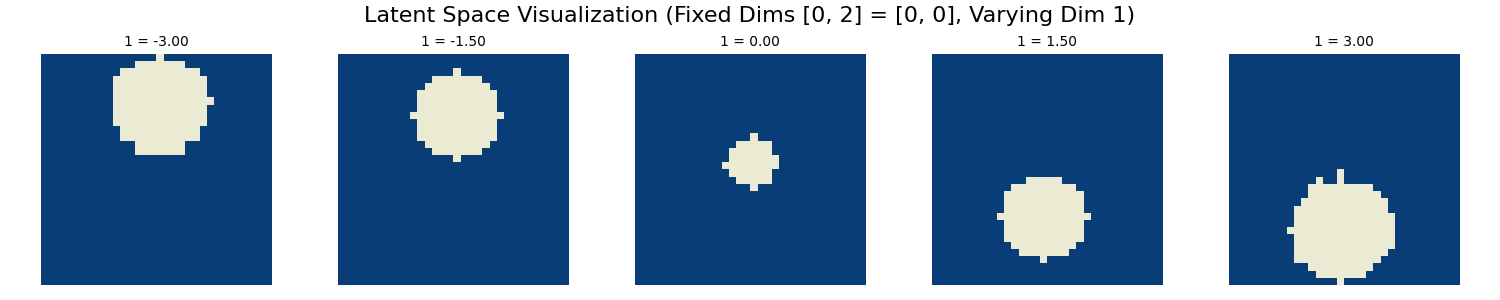
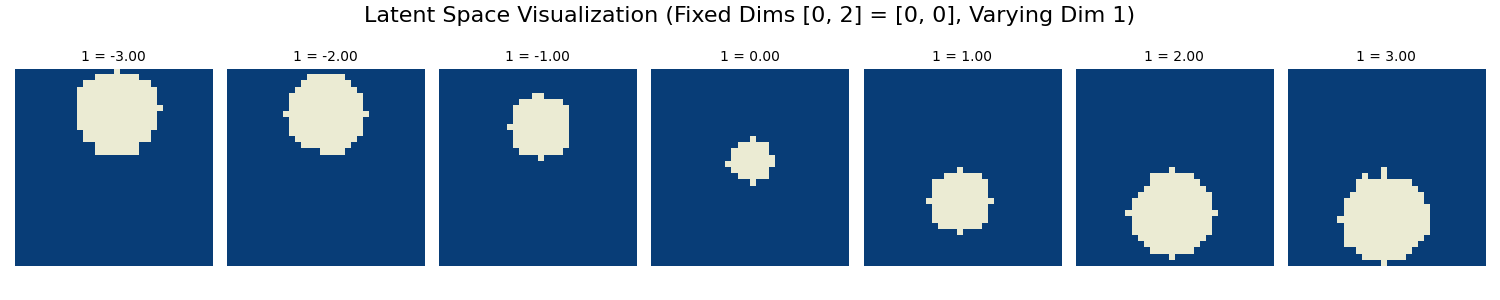
fix: update plot & readme

diff --git a/generate.py b/generate.py
@@ -111,7 +111,7 @@ def main():
         fixed_dims=[0, 2],
         fixed_values=[0, 0],
         varying_dim=1,
-        grid_size=5,
+        grid_size=7,
         latent_range=(-3, 3),
         title="plots/plot3.png",
     )

diff --git a/README.md b/README.md
@@ -8,7 +8,7 @@ This project demonstrates the use of a Variational AutoEncoder (VAE) to learn a 
 
 ##  The Data
 
-The dataset consists of black-and-white images of circles generated using opencv's `cv2.circle `function. Each image contains a single circle, randomly positioned and sized within the frame. The parameters for the circles are:
+The dataset consists of black-and-white images of circles, each of shape 32x32, generated using opencv's `cv2.circle `function. Each image contains a single circle, randomly positioned and sized within the frame. The parameters for the circles are:
 
 - `Radius`: Randomly selected within a defined range.
 - `X-coordinate`: Random horizontal position of the circle's center.
@@ -22,7 +22,7 @@ Below is a sample visualization of the generated data:
 ![logo](./logos/encoder_blue.png)
 
 
-The encoder network compresses the input image into a 3-dimensional latent representation. It consists of convolutional layers followed by fully connected layers, producing two outputs:
+The encoder network compresses the flattened 32x32 input image into a 3-dimensional latent representation. It consists entirely of fully connected layers, producing two outputs:
 
 - Mean vector (μ) of the latent distribution.
 - Log variance vector (logσ2) of the latent distribution.
@@ -31,7 +31,7 @@ The encoder network compresses the input image into a 3-dimensional latent repre
 
 ![logo](./logos/decoder_blue.png)
 
-The decoder reconstructs the original image from the 3-dimensional latent representation. It consists of fully connected layers followed by transposed convolutional layers, ensuring the output matches the original image dimensions.
+The decoder reconstructs the original image from the 3-dimensional latent representation. It also consists entirely of fully connected layers, ensuring the output matches the flattened dimensions of the original image (32x32).
 
 # The Latent Space
 
